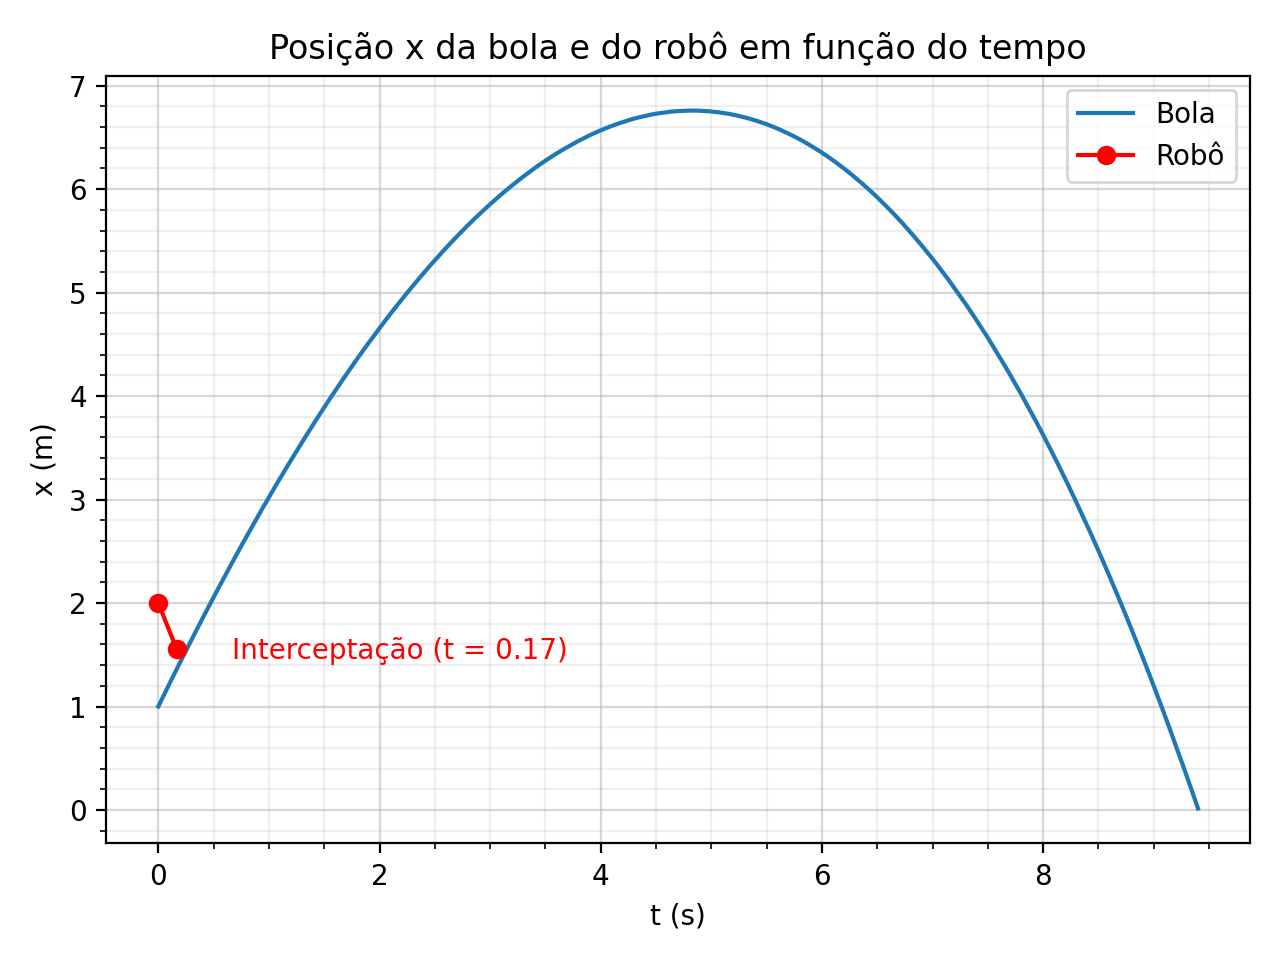
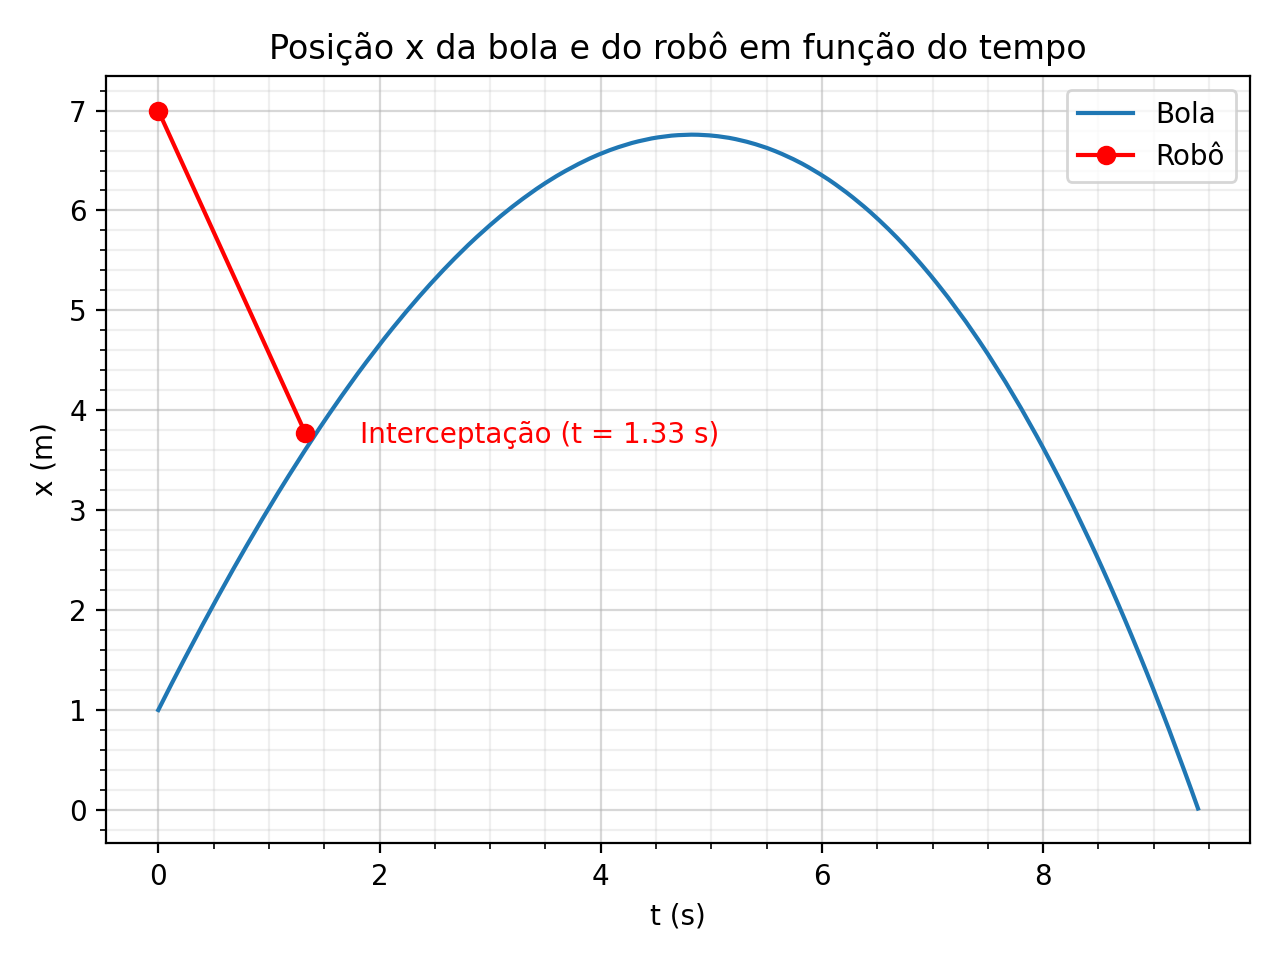
Updated graphs and added simulation canvas

diff --git a/main.py b/main.py
@@ -30,6 +30,13 @@ except ImportError or ModuleNotFoundError:
     subprocess.check_call([sys.executable, "-m", "pip", "install", "customtkinter"])
     from customtkinter import *
 
+try:
+    from PIL import ImageTk, Image
+except ImportError or ModuleNotFoundError:
+    print("PIL não instalado. Instalando...")
+    subprocess.check_call([sys.executable, "-m", "pip", "install", "pillow"])
+    from PIL import ImageTk, Image
+
 def interceptacao(sx, sy, arquivo):
 
     # Incializa as listas vazias para armazenar os valores de t, x e y
@@ -230,6 +237,21 @@ def interceptacao(sx, sy, arquivo):
     for i in range(len(lt)):
         aby.append(fddy[0])
 
+    # Cria a lista de distãncias entre a bola e o robô
+    dist = []
+    t_dist = []
+    for i in range(len(lt)):
+        if wait == 1 and lt[i] >= tempo_chegada:
+            rx_all = lx[waitj+2]
+            ry_all = ly[waitj+2]
+        else:
+            rx_all = sx + vxf*lt[i]
+            ry_all = sy + vyf*lt[i]
+        dist.append(sqrt((lx[i]-rx_all)**2 + (ly[i]-ry_all)**2))
+        t_dist.append(lt[i])
+        if lt[i] >= tempo:
+            break
+
     # Plota o gráfico das trajetórias no plano
     fig, ax1 = plt.subplots()
     if wait == 0:
@@ -261,7 +283,7 @@ def interceptacao(sx, sy, arquivo):
     else:
         ax2.plot([lt[0], tempo_chegada], rx, marker = 'o', color = 'red', label="Robô")
         ax2.plot(tempo, rx[1], marker = 'o', color = 'red')
-    ax2.text(tempo + 0.5, rx[1] - 0.1, ("Interceptação (t = %.2f)" % tempo), fontsize=10, color="red")
+    ax2.text(tempo + 0.5, rx[1] - 0.1, ("Interceptação (t = %.2f s)" % tempo), fontsize=10, color="red")
     ax2.set(title = "Posição x da bola e do robô em função do tempo", xlabel = "t (s)", ylabel = "x (m)")
     ax2.minorticks_on()
     ax2.legend()
@@ -280,7 +302,7 @@ def interceptacao(sx, sy, arquivo):
     else:
         ax3.plot([lt[0], tempo_chegada], ry, marker = 'o', color = 'red', label="Robô")
         ax3.plot(tempo, ry[1], marker = 'o', color = 'red')
-    ax3.text(tempo + 0.5, ry[1] - 0.1, ("Interceptação (t = %.2f)" % tempo), fontsize=10, color="red")
+    ax3.text(tempo + 0.5, ry[1] - 0.1, ("Interceptação (t = %.2f s)" % tempo), fontsize=10, color="red")
     ax3.set(title = "Posição y da bola e do robô em função do tempo", xlabel = "t (s)", ylabel = "y (m)")
     ax3.minorticks_on()
     ax3.legend()
@@ -293,8 +315,9 @@ def interceptacao(sx, sy, arquivo):
 
     # Plota a velocidade x da bola e do robô pelo tempo
     fig, ax4 = plt.subplots()
-    ax4.plot(lt, vbx, label="Bola")
-    ax4.plot([lt[0], lt[-1]], [vxf, vxf], color = 'red', label="Robô")
+    ax4.plot(lt, vbx, label="Bola", marker='o', markevery=[0, -1])
+    ax4.plot([lt[0], lt[-1]], [vxf, vxf], color = 'red', label="Robô", marker='o', markevery=[0, -1])
+    ax4.annotate(('%.2f m/s' % vxf), (lt[0] + 0.5, vxf + 0.2), color = 'red')
     ax4.set(title = "Velocidade x da bola e do robô em função do tempo", xlabel = "t (s)", ylabel = "Vx (m/s)")
     ax4.minorticks_on()
     ax4.legend()
@@ -307,8 +330,9 @@ def interceptacao(sx, sy, arquivo):
 
     # Plota a velocidade y da bola e do robô pelo tempo
     fig, ax5 = plt.subplots()
-    ax5.plot(lt, vby, label="Bola")
-    ax5.plot([lt[0], lt[-1]], [vyf, vyf], color = 'red', label="Robô")
+    ax5.plot(lt, vby, label="Bola", marker='o', markevery=[0, -1])
+    ax5.plot([lt[0], lt[-1]], [vyf, vyf], color = 'red', label="Robô", marker='o', markevery=[0, -1])
+    ax5.annotate(('%.2f m/s' % vyf), (lt[0] + 0.5, vyf + 0.2), color = 'red')
     ax5.set(title = "Velocidade y da bola e do robô em função do tempo", xlabel = "t (s)", ylabel = "Vy (m/s)")
     ax5.minorticks_on()
     ax5.legend()
@@ -321,8 +345,9 @@ def interceptacao(sx, sy, arquivo):
 
     # Plota a aceleração x da bola e do robô pelo tempo
     fig, ax6 = plt.subplots()
-    ax6.plot(lt, abx, label="Bola")
-    ax6.plot([lt[0], lt[-1]], [0, 0], color = 'red', label="Robô")
+    ax6.plot(lt, abx, label="Bola", marker='o', markevery=[0, -1])
+    ax6.plot([lt[0], lt[-1]], [0, 0], color = 'red', label="Robô", marker='o', markevery=[0, -1])
+    ax6.annotate(("%.2f m/s²" % 0), (lt[0], 0.002), color = 'red')
     ax6.set(title = "Aceleração x da bola e do robô em função do tempo", xlabel = "t (s)", ylabel = "Ax (m/s²)")
     ax6.minorticks_on()
     ax6.legend()
@@ -335,8 +360,9 @@ def interceptacao(sx, sy, arquivo):
 
     # Plota a aceleração y da bola e do robô pelo tempo
     fig, ax7 = plt.subplots()
-    ax7.plot(lt, aby, label="Bola")
-    ax7.plot([lt[0], lt[-1]], [0, 0], color = 'red', label="Robô")
+    ax7.plot(lt, aby, label="Bola", marker='o', markevery=[0, -1])
+    ax7.plot([lt[0], lt[-1]], [0, 0], color = 'red', label="Robô", marker='o', markevery=[0, -1])
+    ax7.annotate(("%.2f m/s²" % 0), (lt[0], 0.002), color = 'red')
     ax7.set(title = "Aceleração y da bola e do robô em função do tempo", xlabel = "t (s)", ylabel = "Ay (m/s²)")
     ax7.minorticks_on()
     ax7.legend()
@@ -347,13 +373,26 @@ def interceptacao(sx, sy, arquivo):
     plt.savefig("results/aceleracao_y_tempo.png", dpi=200)
     plt.clf()
 
+    # Plota a distancia relativa entre bola e robô
+    fig, ax8 = plt.subplots()
+    ax8.plot(t_dist, dist, label="Distancia Relativa", marker='o', markevery=[0, -1])
+    ax8.annotate(("%.4f m" % 0.0965), xy=(t_dist[dist.index(min(dist))], min(dist)), xytext=(t_dist[dist.index(min(dist))], min(dist) + 0.1), color = "C0")
+    ax8.set(title = "Distância relativa entre robô e bola em função do tempo", xlabel = "t (s)", ylabel = "d (m)")
+    ax8.minorticks_on()
+    ax8.grid(which='both')
+    ax8.grid(which='minor', alpha=0.2)
+    ax8.grid(which='major', alpha=0.5)
+    plt.tight_layout()
+    plt.savefig("results/distancia_relativa.png", dpi=200)
+    plt.clf()
+
     # Exibe os resultados
     label_results.configure(text="Ponto de interceptação no menor tempo encontrado!")
     if wait == 1:
-        label_wait.configure(text=("O robô chegará no instante t = %.2f e deverá\nesperar a bola retornar ao campo." % tempo_chegada))
+        label_wait.configure(text=("O robô chegará no instante t = %.2f s e deverá\nesperar a bola retornar ao campo." % tempo_chegada))
     else:
         label_wait.configure(text='')
-    label_intercept.configure(text=("O robô interceptará a bola no instante t = %.2f." % tempo))
+    label_intercept.configure(text=("O robô interceptará a bola no instante t = %.2f s." % tempo))
     label_velocidade.configure(text=("Para isso, o robô deve utilizar uma velocidade de Vx = %.2f e Vy = %.2f." % (vxf, vyf)))
 
 # configura a aparencia da janela
@@ -375,6 +414,8 @@ window.state("zoomed")
 # cria os frames (divisoes) do programa
 frame1 = CTkFrame(window)
 frame2 = CTkFrame(window, border_color="black", border_width=5, corner_radius=10)
+frame3 = CTkFrame(window, border_color="black", border_width=5, corner_radius=10)
+
 #frame2 = Frame(window)
 
 # cria label de seleção de trajetoria
@@ -414,8 +455,6 @@ def run():
 
     valor = menu_grafico.get()
     exibe_imagem(valor)
-
-    frame2.pack(side=RIGHT, padx=10, pady=10, expand=True)
     
 # cria botão de execução
 calcular = CTkButton(master=frame1, text="Calcular", command=run, height=40, width=200)
@@ -429,6 +468,8 @@ progress_bar.pack(anchor=W, padx=10, pady=10)
 # exibe imagem com zoom:
 def exibe_imagem(value):
     canvas.delete("all")
+    frame3.pack_forget()
+    frame2.pack(side=RIGHT, padx=10, pady=10, expand=True)
 
     if value == "Trajetória de interceptação":
         Zoom_Advanced(canvas, path="results/trajetoria_de_interceptacao.png")
@@ -444,6 +485,11 @@ def exibe_imagem(value):
         Zoom_Advanced(canvas, path="results/aceleracao_x_tempo.png")
     elif value == "Aceleração Y por tempo":
         Zoom_Advanced(canvas, path="results/aceleracao_y_tempo.png")
+    elif value == "Distância Relativa":
+        Zoom_Advanced(canvas, path="results/distancia_relativa.png")
+    elif value == "Simulação":
+        frame2.pack_forget()
+        frame3.pack(side=RIGHT, padx=10, pady=10, expand=True)
 
     window.update()
 
@@ -486,13 +532,32 @@ label_graficos = CTkLabel(frame1, text="Selecione o gráfico desejado:", anchor=
 label_graficos.pack(anchor=W, padx=10, pady=0)
 
 # cria o menu de seleção de gráfico
-menu_grafico = CTkOptionMenu(master=frame1, values=["Trajetória de interceptação", "Posição X por tempo", "Posição Y por tempo", "Velocidade X por tempo", "Velocidade Y por tempo", "Aceleração X por tempo", "Aceleração Y por tempo"], height=40, width=200, command=exibe_imagem)
+menu_grafico = CTkOptionMenu(master=frame1, values=["Trajetória de interceptação", "Posição X por tempo", "Posição Y por tempo", "Velocidade X por tempo", "Velocidade Y por tempo", "Aceleração X por tempo", "Aceleração Y por tempo", "Distância Relativa", "Simulação"], height=40, width=200, command=exibe_imagem)
 menu_grafico.pack(anchor=W, padx=10, pady=10)
 menu_grafico.set("Trajetória de interceptação")
 
 # cria o canvas para exibir as imagens
 canvas = Canvas(frame2, width=1280, height=960)
 canvas.pack(anchor=CENTER, padx=10, pady=10)
+
+# cria o canvas do campo
+canvas_campo = Canvas(frame3, width=900, height=600)
+canvas_campo.pack(anchor=SW, padx=10, pady=10)
+
+# abre a imagem do robo e da bola
+img_robo = ImageTk.PhotoImage(Image.open("images/robot.png"))
+img_bola = ImageTk.PhotoImage(Image.open("images/ball.png"))
+
+# abre a imagem do campo
+img_campo = ImageTk.PhotoImage(Image.open("images/campo.png"))
+
+# exibe a imagem do campo no canvas_campo
+canvas_campo.create_image(0, 0, anchor=CENTER, image=img_campo)
+canvas_campo.img = img_campo
+
+# cria o botão para iniciar a simulação
+button_iniciar = CTkButton(frame3, text="Iniciar")
+button_iniciar.pack(anchor=CENTER, padx=10, pady=10)
 
 # cria os labels de resultado
 label_results = CTkLabel(frame1, text='')
